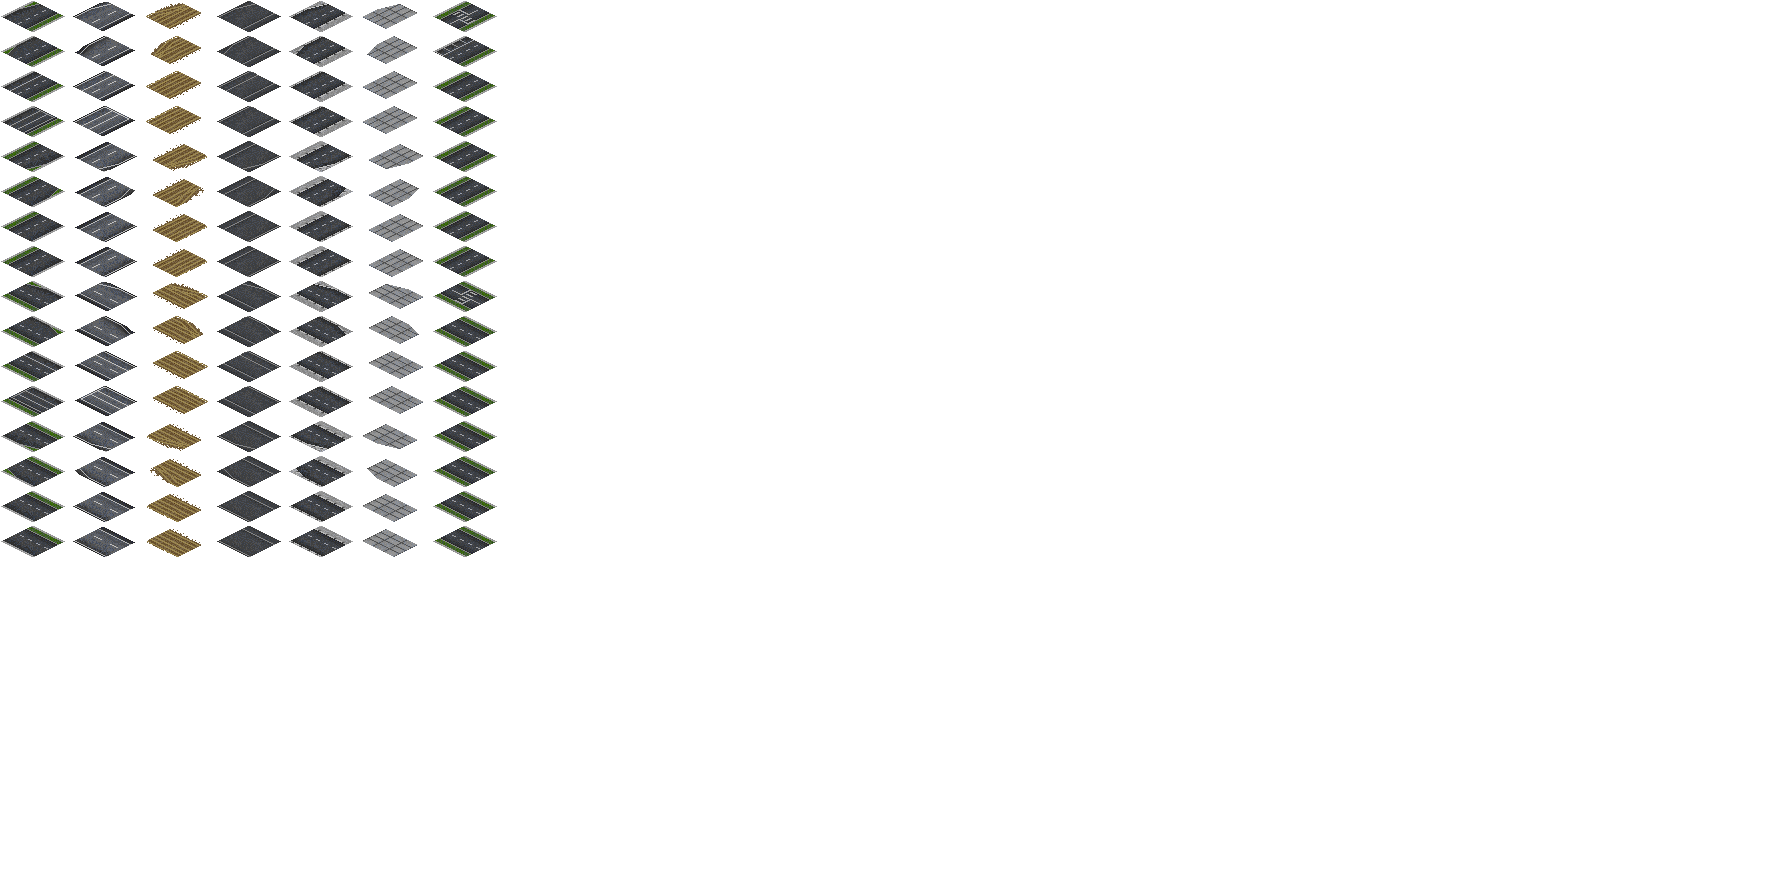
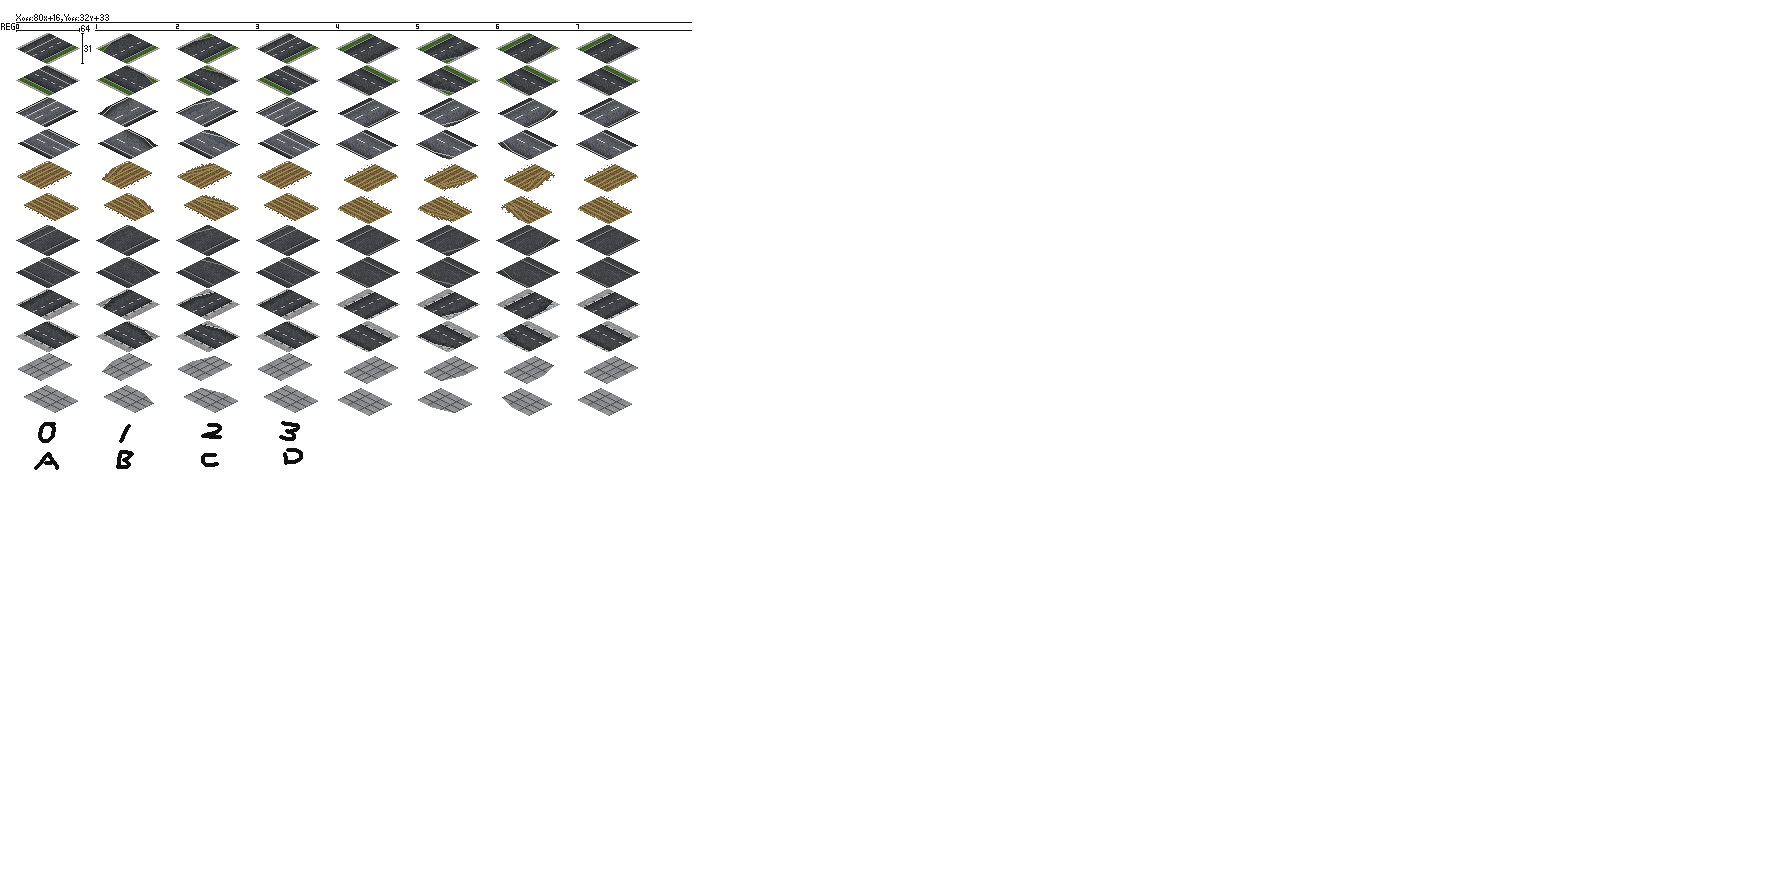
Add: autostations

Changed region(s): [[0.0, 0.0, 0.3733, 0.6502]]

diff --git a/src/station.py b/src/station.py
@@ -135,9 +135,11 @@ class RoadDeco(RoadStop):
     def get_sprites(self, g) -> list:
         res = []  # to return this thing
 
+        assert len(self.sprites) % 2 == 0, f"Sprites must be in pairs, got {len(self.sprites)}"
+
         res.append(
             grf.Action1(
-                feature=grf.ROAD_STOP, set_count=1, sprite_count=len(self.sprites), first_set=0
+                feature=grf.ROAD_STOP, set_count=2, sprite_count=len(self.sprites) // 2, first_set=0
             )
         )
         res.extend(self.sprites)
@@ -186,14 +188,14 @@ class RoadDeco(RoadStop):
                 buildings=[
                     {
                         "sprite": grf.SpriteRef(
-                            id=0,
+                            id=0 if i == 4 else 1,
                             pal=0,
                             is_global=False,
                             use_recolour=False,
                             always_transparent=False,
                             no_transparent=False,
                         ),
-                        "add": grf.Temp(0),
+                        "add": grf.Temp(0 if i == 4 else 1),
                     },
                 ]
             )
@@ -201,22 +203,32 @@ class RoadDeco(RoadStop):
             if i in (4, 5)
         }
 
+        def get_tile_id(x: int ,y: int):
+            return f"var(0x68, param=({LayoutOperation.calculate_offset(x, y)}), shift=0, and=0xF)"
+
         res.append(
             layout := grf.Switch(
                 feature=self.FEATURE,
                 related_scope=False,
                 code=(
-                    "TEMP[1] = formation()",
-                    "TEMP[0] = view - 4",
+                    "TEMP[1] = formation_1()",
+                    "TEMP[0] = formation_0()",
                     "view"),
                 ranges={**layouts},
                 default=next(iter(layouts.values()), None),
                 subroutines={
-                    "formation": grf.Switch(
+                    "formation_0": grf.Switch(
                         feature=self.FEATURE,
                         related_scope=False,
                         ranges={},
-                        code=(f"var(0x68, param=({LayoutOperation.calculate_offset(0,-1)}), shift=0, and=0x8) == var(0x68, param=({LayoutOperation.calculate_offset(0,0)}), shift=0, and=0x8)"),
+                        code=(f"({get_tile_id(0,0)} == {get_tile_id(0,-1)}) + ({get_tile_id(0,0)} == {get_tile_id(0,1)}) * 2"),
+                        default=0,
+                    ),
+                    "formation_1": grf.Switch(
+                        feature=self.FEATURE,
+                        related_scope=False,
+                        ranges={},
+                        code=(f"({get_tile_id(0,0)} == {get_tile_id(-1,0)}) + ({get_tile_id(0,0)} == {get_tile_id(1,0)}) * 2"),
                         default=0,
                     )
                 }
@@ -236,15 +248,21 @@ class RoadDeco(RoadStop):
 
 def tmpl_pullouts(x, func):
     ls = []
-    for i in range(8):
-        ls.append(func(72 * x + 1, 35 * i + 1, 64, 31, xofs=-31, yofs=0))
-        ls.append(func(72 * x + 1, 35 * (i + 8) + 1, 64, 31, xofs=-31, yofs=0))
+    for i in range(7):
+        ls.append(func(80 * x*4     + 16, 32 * i*2       + 33, 64, 31, xofs=-31, yofs=0))
+        ls.append(func(80 * (x*4+1) + 16, 32 * i*2       + 33, 64, 31, xofs=-31, yofs=0))
+        ls.append(func(80 * (x*4+2) + 16, 32 * i*2       + 33, 64, 31, xofs=-31, yofs=0))
+        ls.append(func(80 * (x*4+3) + 16, 32 * i*2       + 33, 64, 31, xofs=-31, yofs=0))
+        ls.append(func(80 * x*4     + 16, 32 * (i*2 + 1) + 33, 64, 31, xofs=-31, yofs=0))
+        ls.append(func(80 * (x*4+1) + 16, 32 * (i*2 + 1) + 33, 64, 31, xofs=-31, yofs=0))
+        ls.append(func(80 * (x*4+2) + 16, 32 * (i*2 + 1) + 33, 64, 31, xofs=-31, yofs=0))
+        ls.append(func(80 * (x*4+3) + 16, 32 * (i*2 + 1) + 33, 64, 31, xofs=-31, yofs=0))
     return ls
 
 pullouts_png = grf.ImageFile("gfx/u-ratt-pullouts.png")  # TODO finish
 sprites = [
     sprite
-    for i in range(7)
+    for i in range(2)
     for sprite in tmpl_pullouts(
         i, lambda *args, **kw: grf.FileSprite(pullouts_png, *args, **kw, bpp=8)
     )
@@ -265,8 +283,8 @@ stops = [
         class_label=b"STAT",
         name="Sample station",
         id=id_manager.new(), # wow new id!
-        sprites=[sprite1, sprite2],
-    ) for sprite1, sprite2 in zip(sprites[::2], sprites[1::2])
+        sprites=packed_sprites,
+    ) for packed_sprites in [sprites[i:i+8] for i in range(0, len(sprites), 8)]  # 8 sprites per station
 ]
 
 g.add(*stops)
